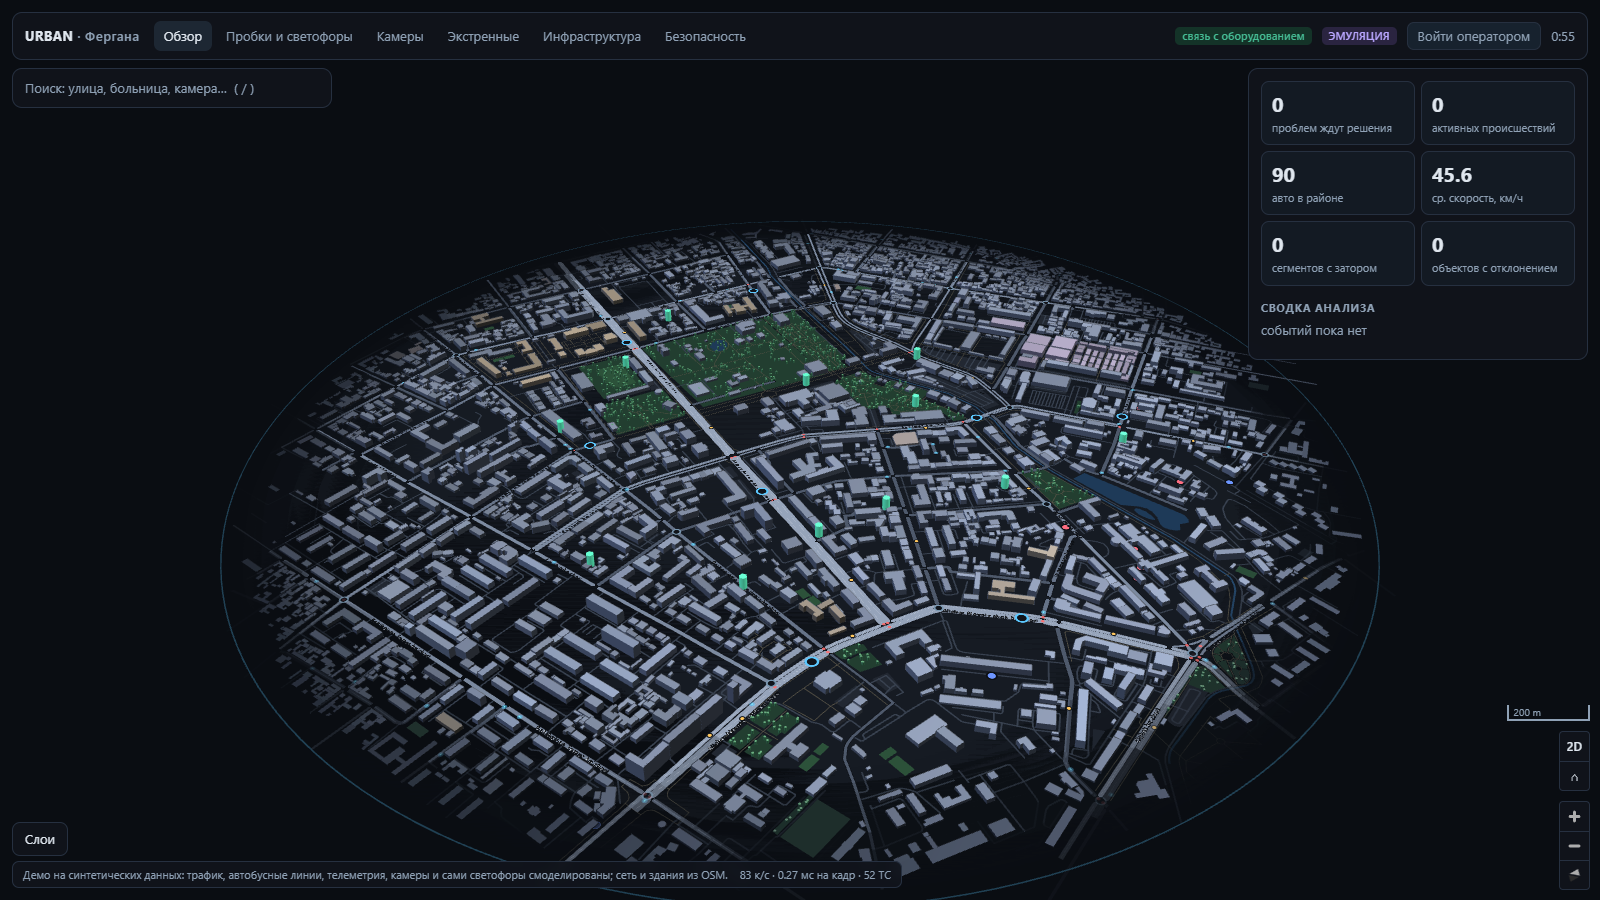
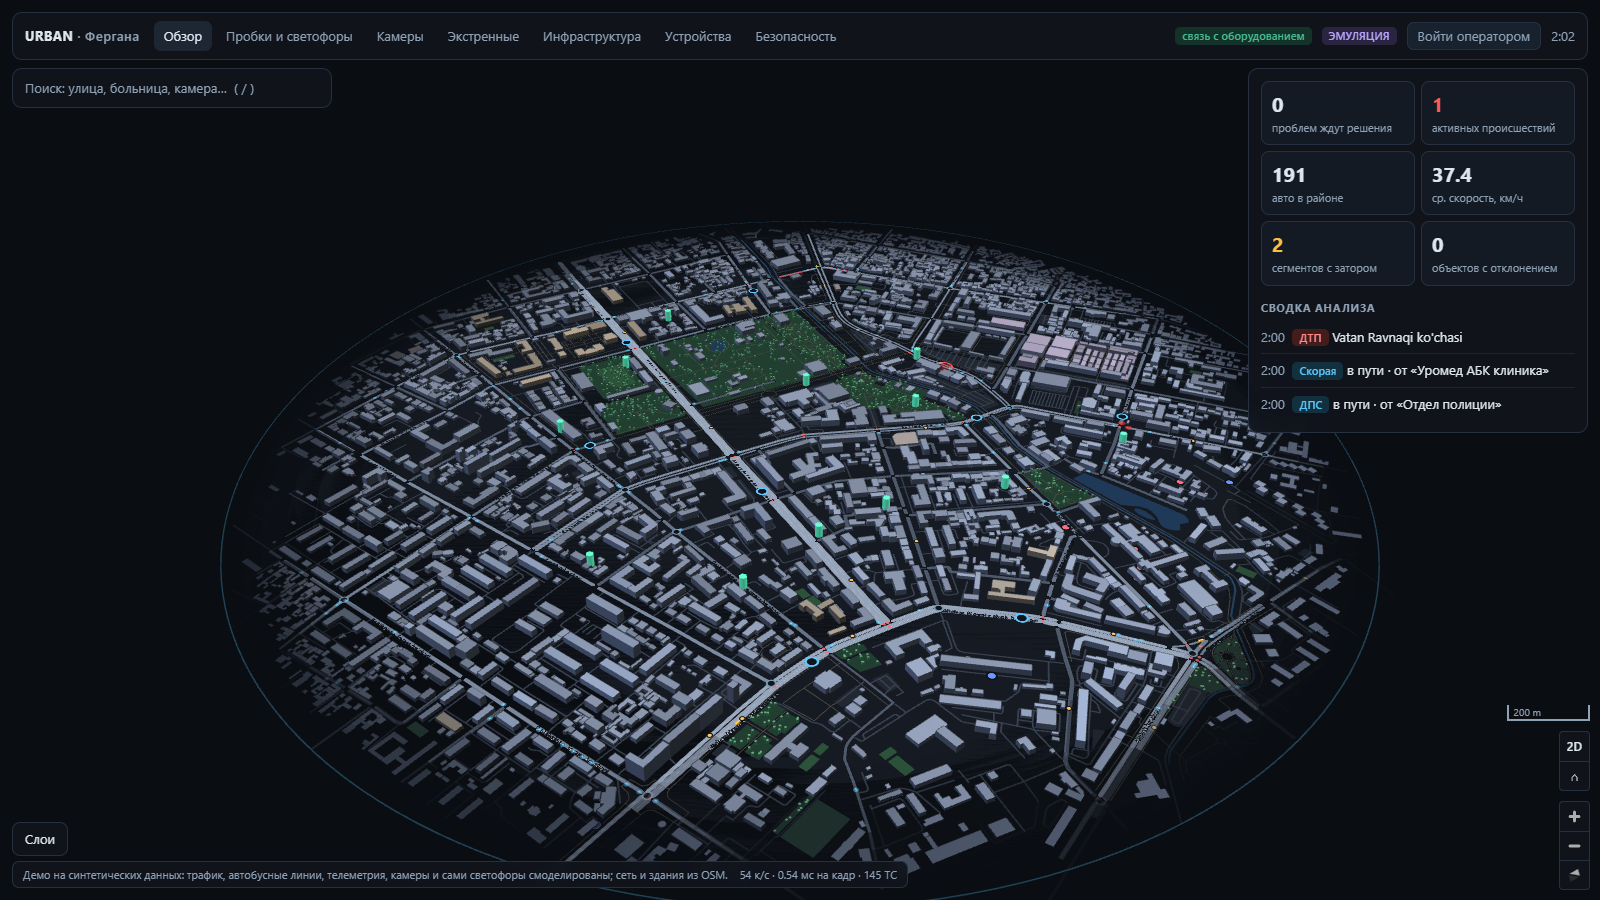
Refresh README screenshots, add the devices tab

diff --git a/README.md b/README.md
@@ -48,9 +48,13 @@ flowchart LR
    или начало страдать направление, отдающее зелёный.
 5. **Сбой ничего не ломает.** Пропала связь или платформа — контроллер сам возвращает свой план.
 
-| Камера нашла проблему | Журнал и правила безопасности |
+| Камера нашла проблему | Реестр устройств и их здоровье |
 |---|---|
-| ![Проблема, найденная камерой, ждёт решения оператора](docs/img/problem.png) | ![Вкладка безопасности с журналом аудита](docs/img/security.png) |
+| ![Проблема, найденная камерой, ждёт решения оператора](docs/img/problem.png) | ![Вкладка устройств: вскрытый шкаф заблокировал перекрёсток, другой шкаф перегревается](docs/img/devices.png) |
+
+| Журнал и правила безопасности | |
+|---|---|
+| ![Вкладка безопасности с журналом аудита](docs/img/security.png) | |
 
 ## Почему это безопаснее
 
